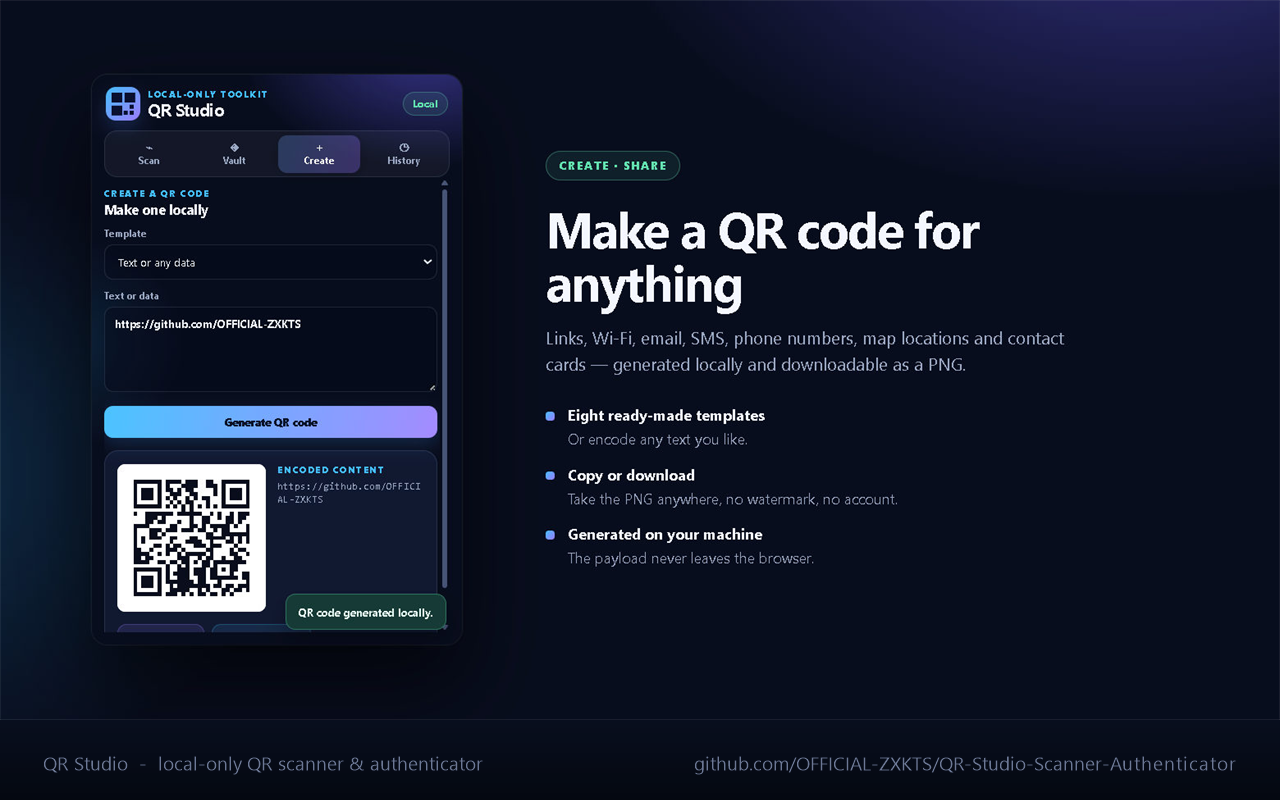
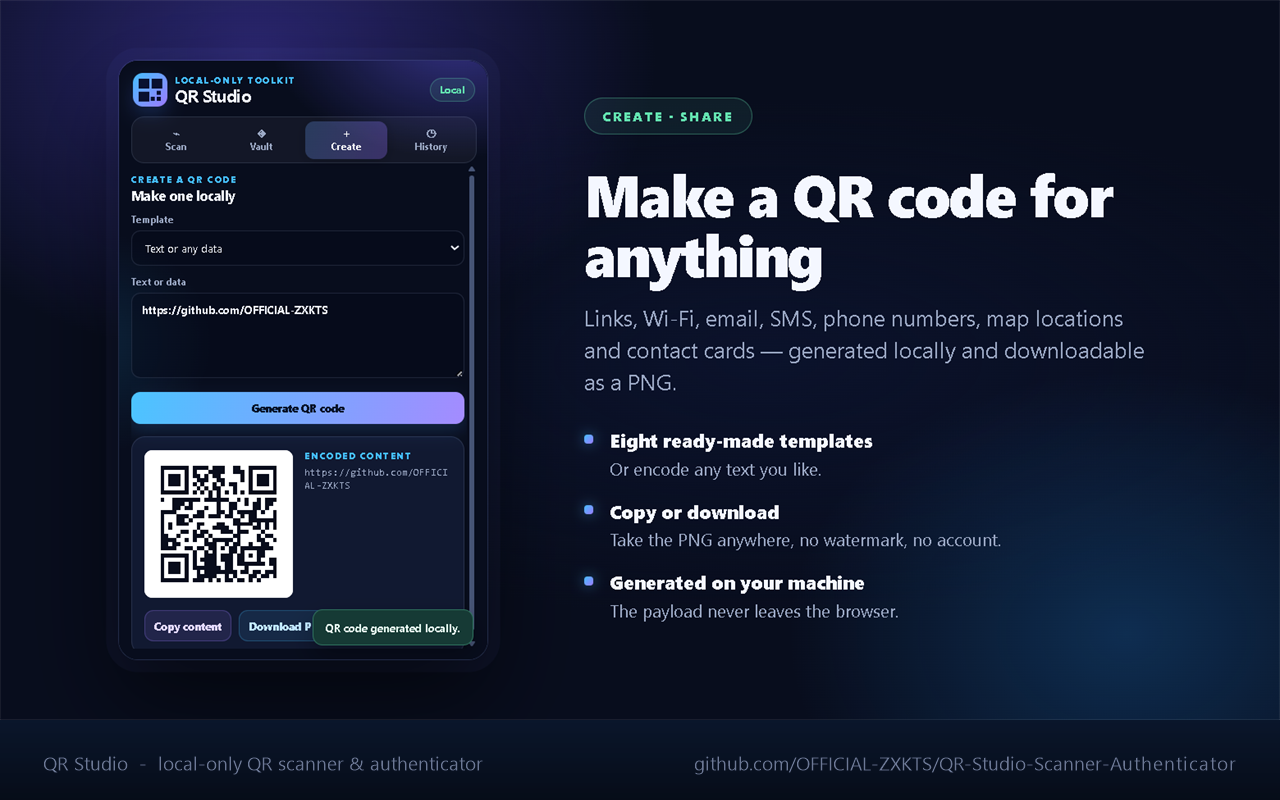
Stop the extension popup from collapsing to a cramped layout
Chrome sizes an extension popup by measuring the document. The popup
declared `width: 370px`, but a `@media (max-width: 390px)` rule replaced
that with `width: 100%`. A percentage width contributes nothing to the
measurement, so Chrome sized the popup down to a narrow viewport - and
the media query then kept it there. The result was a ~240px popup with a
two-by-two tab grid, a truncated camera name and a clipped heading.

- Give the body a `min-width: 370px` floor so the popup always opens at
  its real width, whatever the viewport does.
- Raise the popup from 570px to 600px, Chrome's maximum popup height, so
  the Scan view fits without scrolling and the heading is never cut off.
- Scope the narrow-layout breakpoints to the full-screen camera page,
  which opens as a normal tab and genuinely needs to reflow.

The store screenshots are regenerated against the corrected 370x600 popup.

diff --git a/popup.css b/popup.css
@@ -19,9 +19,14 @@
 * { box-sizing: border-box; }
 html { background: var(--page); }
 body {
+  /* Chrome sizes an extension popup by measuring this document, and a
+     percentage width contributes nothing to that measurement - the popup
+     would collapse to whatever the viewport happens to be. The min-width
+     is the floor that keeps the popup at its real size. */
   width: 370px;
-  height: 570px;
-  max-height: 570px;
+  min-width: 370px;
+  height: 600px;
+  max-height: 600px;
   overflow: hidden;
   margin: 0;
   color: var(--ink);
@@ -201,7 +206,7 @@ code { color: #d1c1ff; }
 .toast { position: fixed; right: 16px; bottom: 15px; z-index: 5; max-width: 355px; padding: 10px 12px; border: 1px solid rgba(99, 226, 176, .34); border-radius: 10px; color: #e9fff5; background: #163a35; box-shadow: 0 12px 25px rgba(0,0,0,.32); font-size: 11px; font-weight: 720; }
 .toast.error { border-color: rgba(255, 120, 144, .36); background: #48212e; }
 
-body.full-camera-page { width: min(760px, 100vw); height: auto; max-height: none; overflow: auto; }
+body.full-camera-page { width: min(760px, 100vw); min-width: 0; height: auto; max-height: none; overflow: auto; }
 body.full-camera-page .app-shell { width: min(700px, 100%); height: auto; min-height: 100vh; margin: auto; overflow: visible; padding: 20px; }
 body.full-camera-page .main-tabs { display: none; }
 body.full-camera-page .view-panel { height: auto; flex: 0 0 auto; overflow: visible; }
@@ -214,19 +219,25 @@ body.full-camera-page .scan-frame i { top: 62px; left: 18px; width: 88px; }
 body.full-camera-page .full-camera-button { display: none; }
 body.full-camera-page .footer-note { display: block; }
 
-@media (max-width: 390px) { body { width: 100%; } }
+/* The popup is a fixed 370px, so the narrow layout rules below only ever
+   matter for the full-screen camera page, which opens as a normal tab. */
+@media (max-width: 390px) {
+  body.full-camera-page { width: 100%; min-width: 0; }
+}
 @media (max-width: 320px) {
-  .app-shell { padding: 8px; }
-  .intent-toggle, .form-grid { grid-template-columns: 1fr; }
-  .generated-card { grid-template-columns: 1fr; }
-  #generatedCanvas { width: min(148px, 100%); height: auto; aspect-ratio: 1 / 1; }
-  .account { grid-template-columns: 32px minmax(0, 1fr); }
-  .account-code { grid-column: 1 / -1; min-width: 0; text-align: left; }
-  .section-heading { flex-wrap: wrap; }
-  .vault-toolbar .compact { flex: 1 1 auto; }
+  body.full-camera-page .app-shell { padding: 8px; }
+  body.full-camera-page .intent-toggle,
+  body.full-camera-page .form-grid { grid-template-columns: 1fr; }
+  body.full-camera-page .generated-card { grid-template-columns: 1fr; }
+  body.full-camera-page #generatedCanvas { width: min(148px, 100%); height: auto; aspect-ratio: 1 / 1; }
+  body.full-camera-page .account { grid-template-columns: 32px minmax(0, 1fr); }
+  body.full-camera-page .account-code { grid-column: 1 / -1; min-width: 0; text-align: left; }
+  body.full-camera-page .section-heading { flex-wrap: wrap; }
+  body.full-camera-page .vault-toolbar .compact { flex: 1 1 auto; }
 }
 @media (max-width: 240px) {
-  .main-tabs, .source-tabs { grid-template-columns: repeat(2, 1fr); }
-  .history-note { margin-left: 0; }
-  .scan-controls { flex-wrap: wrap; }
+  body.full-camera-page .main-tabs,
+  body.full-camera-page .source-tabs { grid-template-columns: repeat(2, 1fr); }
+  body.full-camera-page .history-note { margin-left: 0; }
+  body.full-camera-page .scan-controls { flex-wrap: wrap; }
 }

diff --git a/CHANGELOG.md b/CHANGELOG.md
@@ -47,6 +47,16 @@ Nothing yet.
 - General QR results always preserve the exact decoded payload. URLs are never
   opened automatically — there is always an explicit button.
 
+### Fixed
+
+- **The popup no longer collapses.** Chrome sizes an extension popup by measuring
+  the document, and a percentage width contributes nothing to that measurement —
+  the popup was shrinking to a cramped two-column layout with a clipped camera
+  name. The popup now holds its real 370px width.
+- The popup is 600px tall instead of 570px, which is Chrome's maximum popup
+  height. The Scan view now fits without scrolling, so the section heading is
+  never cut off.
+
 ### Security
 
 - No network requests, no analytics, no telemetry, no remote configuration.
